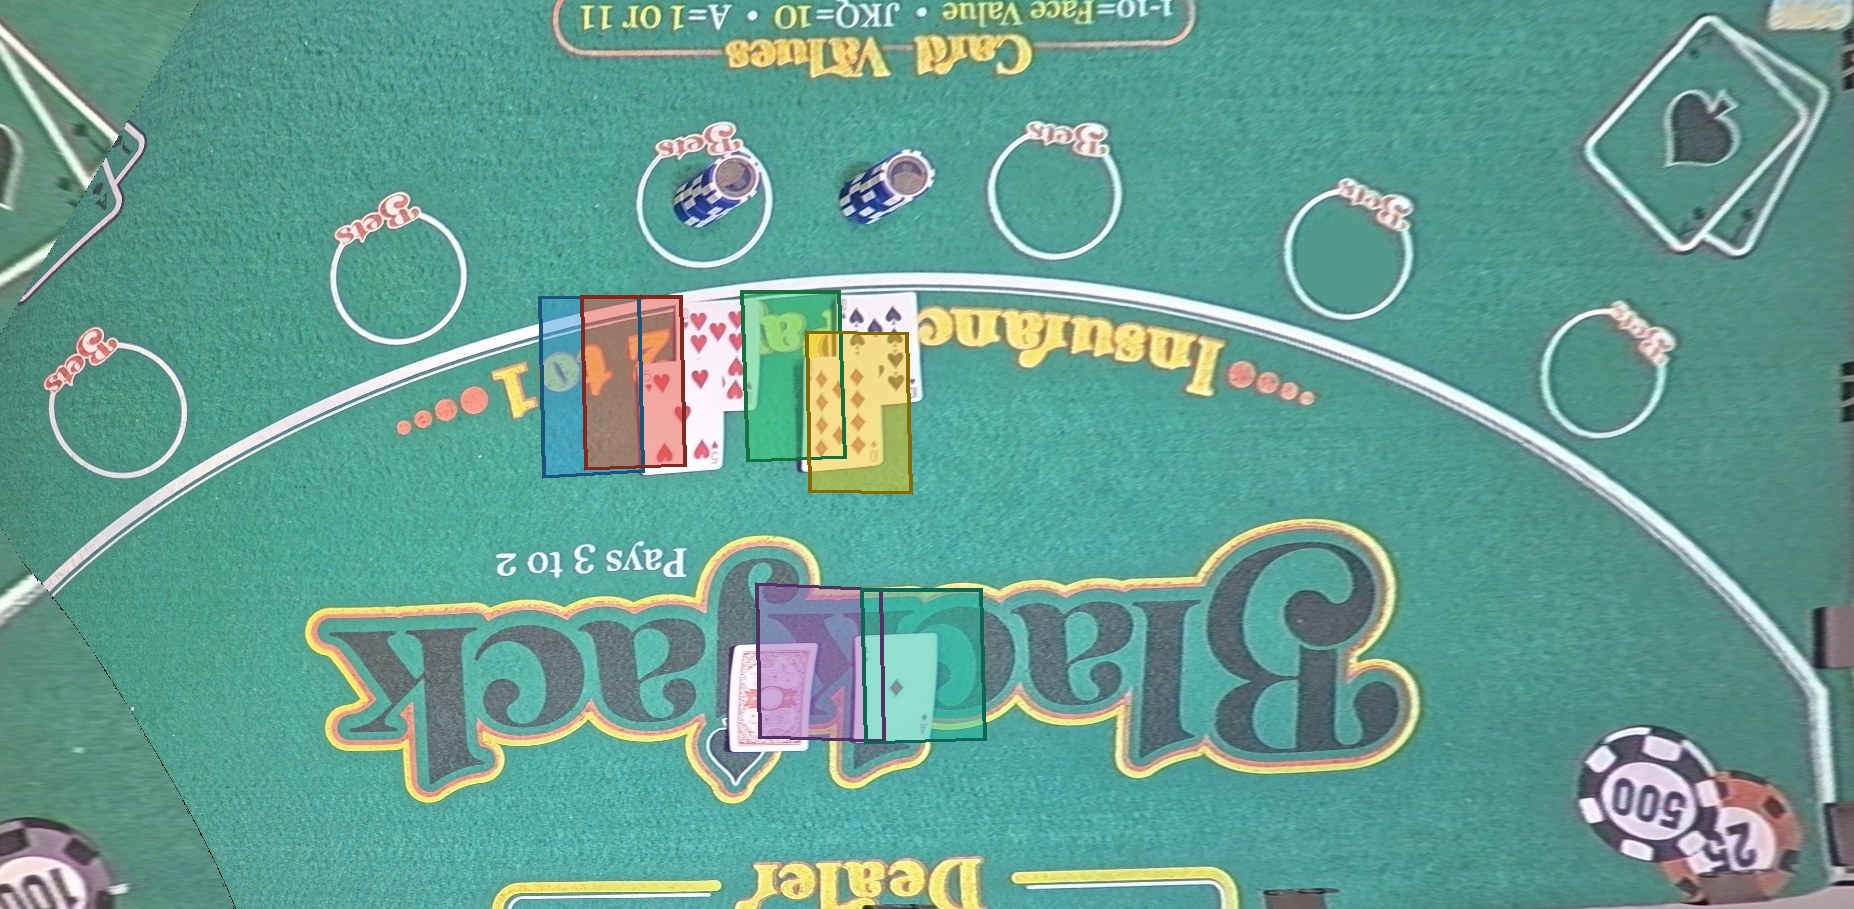
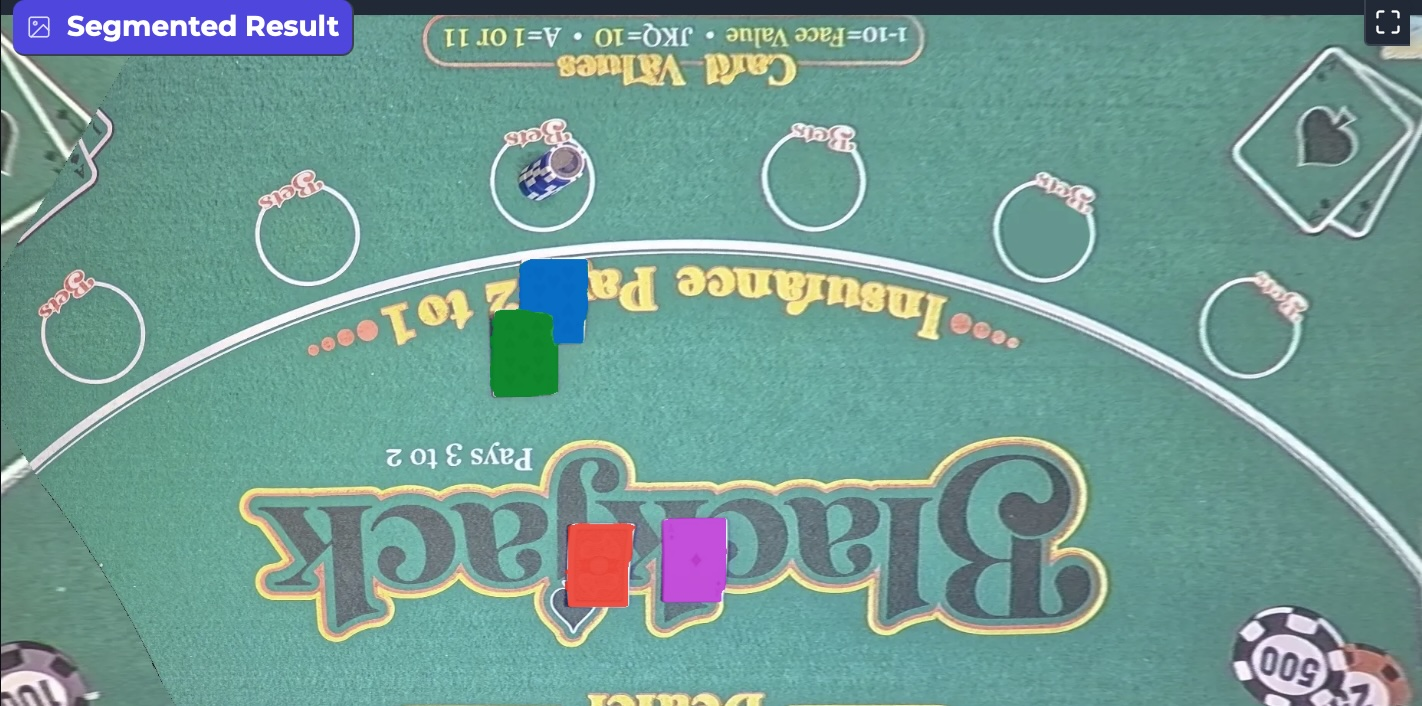
blog: replace segmentation figure with real model output
Swap hand-drawn overlay for actual production segmentation result —
four card instances with per-pixel masks (player hand blue + green,
dealer hand red + magenta). Updated alt text and figcaption to match.

diff --git a/blog/casino-vision/index.html b/blog/casino-vision/index.html
@@ -88,8 +88,8 @@
         <p>We pivoted to segmentation, accepting the higher annotation cost. Polygon-mask labeling takes minutes per card instead of seconds per box. In exchange, segmentation gives the model dense per-pixel signal that handles overlap gracefully. Severely overlapping cards separated cleanly. Card identification went from "works most of the time" to reliable enough to trigger the rest of the pipeline.</p>
 
         <figure>
-          <img src="assets/card-segmentation.jpg" alt="A blackjack table photographed from the camera angle, with each card instance overlaid in a distinct color: the two cards in the left player hand are masked in blue and red, the right player hand's Q of spades and 9 of diamonds in green and yellow, and the dealer's face-down card and Ace of diamonds in purple and teal." />
-          <figcaption>Per-instance segmentation in production. Each card gets its own mask and its own color — including the stacked, partially overlapping cards in each hand. The dense per-pixel signal is what lets the model separate cards that anchor-box detection collapsed into a single object.</figcaption>
+          <img src="assets/card-segmentation.jpg" alt="Production segmentation output overlaid on a blackjack table frame. Four card instances are masked in distinct colors: the player hand's two stacked cards are masked in blue and green, and the dealer's two cards are masked in red and magenta. Each mask follows the precise pixel boundary of its card, including the overlapping edges where the two cards in each hand touch." />
+          <figcaption>Production segmentation output. Each card instance gets its own per-pixel mask in a distinct color — including the stacked, overlapping cards in each hand. The dense per-pixel signal is what lets the model separate cards that anchor-box detection collapsed into a single object.</figcaption>
         </figure>
 
         <p>Production card segmentation accuracy reached approximately <strong>99%</strong>.</p>
